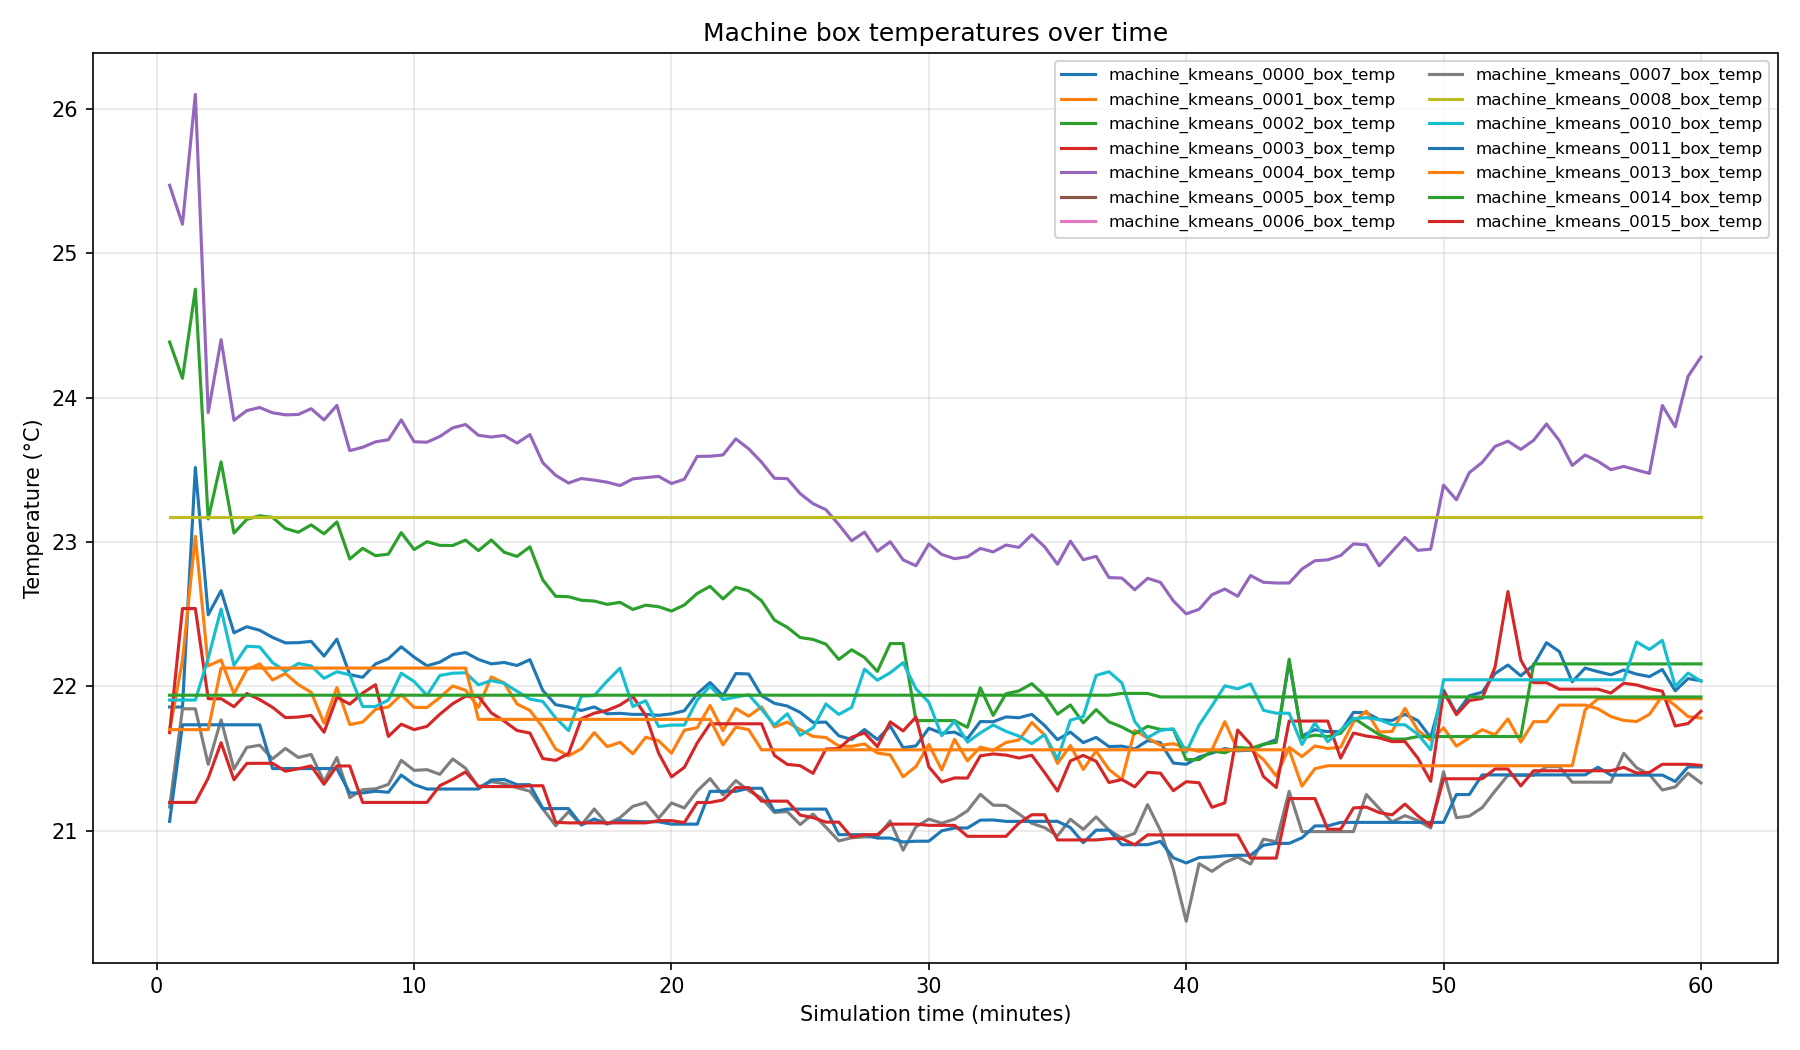
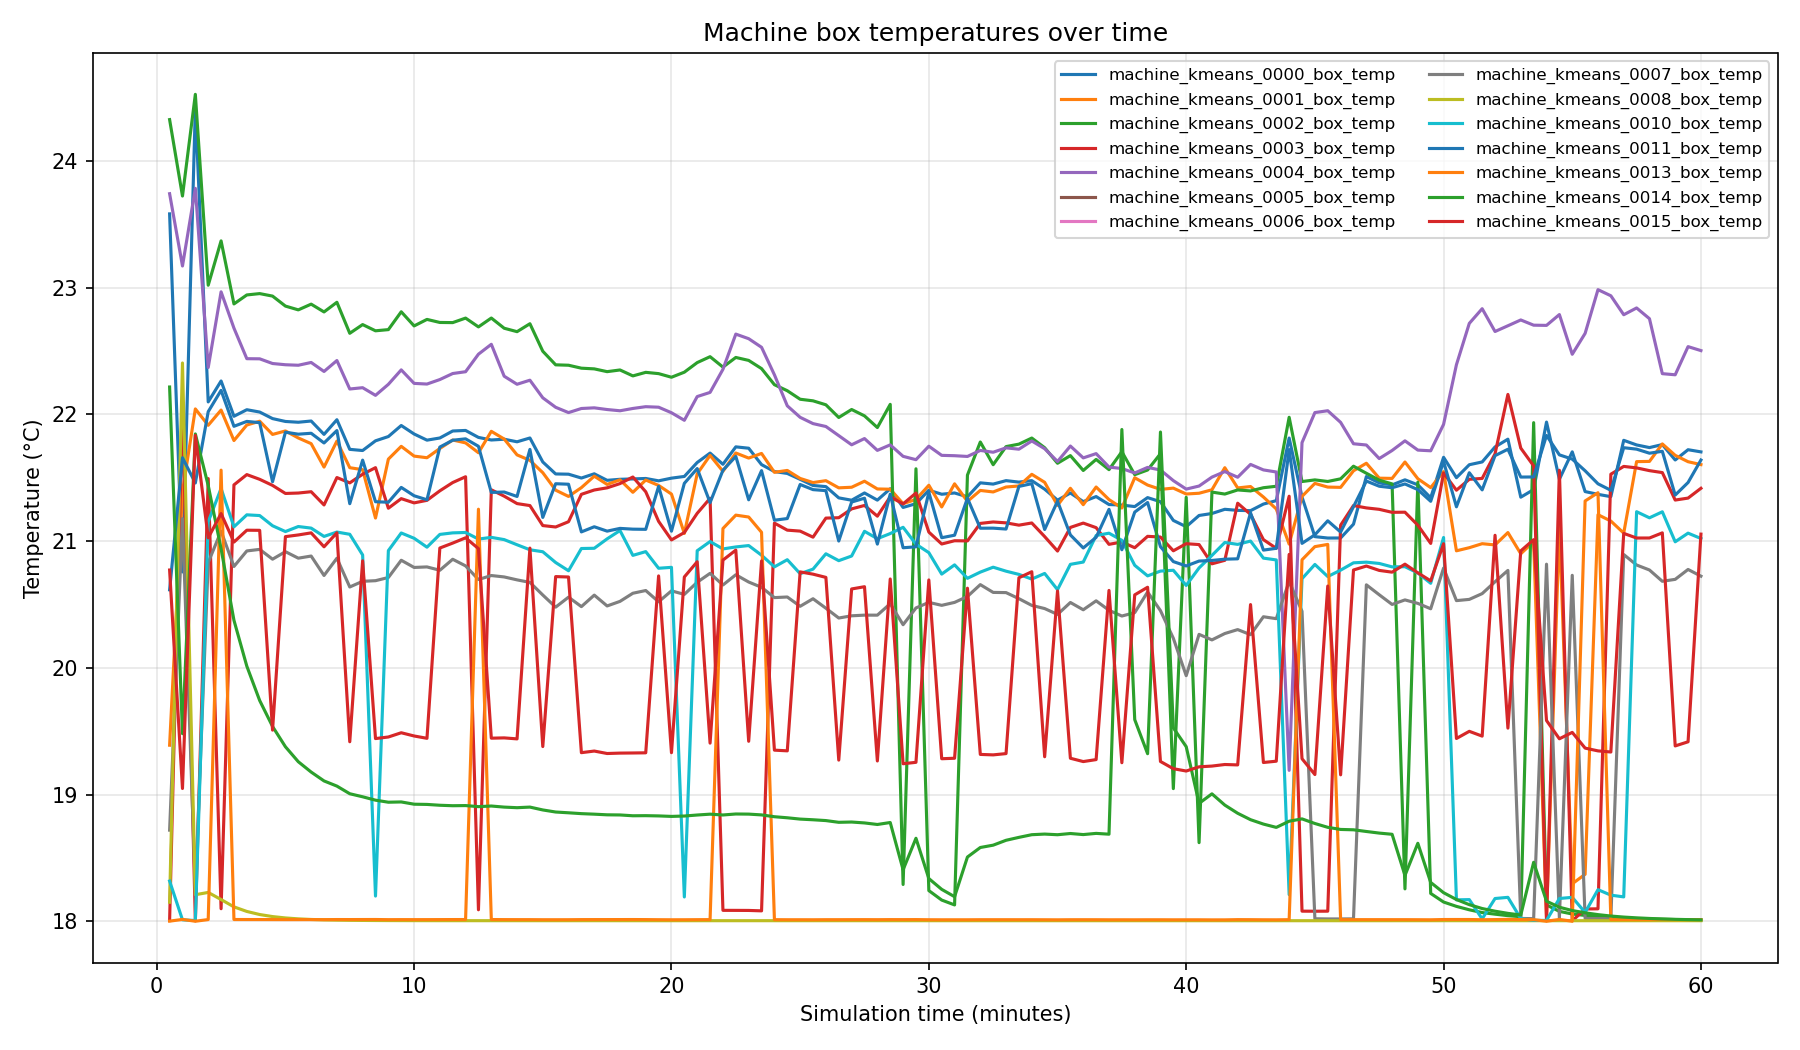
Stability simulation with different approach

diff --git a/cleanroom_cfd/entities.py b/cleanroom_cfd/entities.py
@@ -13,7 +13,7 @@ ENTITY_CATALOGE = {
         "is_active": True,
     },
     "air_conditioning": {
-        "base_temperature": -15.0,
+        "base_temperature": 18.0,
         "velocity": (0.0, -1.5),
         "is_active": True,
         "blocks_airflow": False,
@@ -22,7 +22,7 @@ ENTITY_CATALOGE = {
         "blocks_airflow": False,
         "is_outlet": True,
         "is_active": True,
-        "drain_strength": 0.15, #amo fraction of air drained
+        "drain_strength": 0.01, #amo fraction of air drained
     },
     "human": {
         "base_temperature": 37.0,
@@ -114,6 +114,3 @@ class Entity:
         # Max T and amount time 
         return self.temp_target if self.is_active else None
     
-    # Goals each person should reach end project
-    # heating and cooling implementation
-    # Edit so the implementation is easier with the excel documentation

diff --git a/cleanroom_cfd/simulation.py b/cleanroom_cfd/simulation.py
@@ -106,7 +106,7 @@ def cfd_step(
     np.roll(T_next, 1, axis=0) + np.roll(T_next, -1, axis=0) +
     np.roll(T_next, 1, axis=1) + np.roll(T_next, -1, axis=1)) / 4.0
 
-    h_wall = 15 # conductivity coeffcient
+    h_wall = 2.0 # conductivity coeffcient
     T_next[is_obstacle] = T[is_obstacle] + dt * h_wall * (T_neighbors[is_obstacle] - T[is_obstacle])
 
     # T_next[is_obstacle] = T_ref # obstacles constant temperature (alternative)
@@ -119,7 +119,8 @@ def cfd_step(
 
     # Apply entities (Thermal: heat sources)
     for ent in entities_list:
-        ent.apply_thermal(T_next, dt, res, T.shape[0], T.shape[1], h_conv=15.0)
+        h_conv = 5.0
+        ent.apply_thermal(T_next, dt, res, T.shape[0], T.shape[1], h_conv=h_conv)
 
     T_next = apply_scalar_bc(T_next)
 

diff --git a/cleanroom_cfd/config.py b/cleanroom_cfd/config.py
@@ -17,8 +17,8 @@ class SimulationConfig:
     # Sock setup
     y_sock_m: float = 8.0
     sock_thickness_m: float = 0.5
-    sock_speed: float = 1.20
-    supply_temp: float = 8.0
+    sock_speed: float = 0.45
+    supply_temp: float = 18.0
 
     # Physics
     alpha_heat: float = 1.0e-2
@@ -29,7 +29,7 @@ class SimulationConfig:
     T_ref: float = 20.0
 
     # Numerics
-    pressure_iters: int = 10
+    pressure_iters: int = 30
     max_speed: float = 1.5
     smoke_diff: float = 8.0e-4
     source_half_thickness_cells: int = 2
@@ -40,5 +40,5 @@ class SimulationConfig:
     warmup_steps: int = 3000
 
     # Plotting
-    temp_vmin: float = 8.0
-    temp_vmax: float = 80.0
+    temp_vmin: float = 15.0
+    temp_vmax: float = 45.0

diff --git a/cleanroom_cfd/visualization.py b/cleanroom_cfd/visualization.py
@@ -28,8 +28,8 @@ def animate_simulation(
         cmap='magma',
         origin='lower',
         extent=[0, svg_width_m, 0, svg_height_m],
-        vmin=8,
-        vmax=80
+        vmin=15,
+        vmax=35
     )
 
     ax.contour(
@@ -82,7 +82,7 @@ def animate_simulation(
                 )
                 ax.add_patch(machine_box)
 
-    ax.plot(hs_x_m, hs_y_m, marker='o', markersize=5, color='white')
+    # ax.plot(hs_x_m, hs_y_m, marker='o', markersize=5, color='white')
 
     plt.colorbar(temp_im, label='Temperature (°C)')
     ax.set_xlabel('X (meters)')
